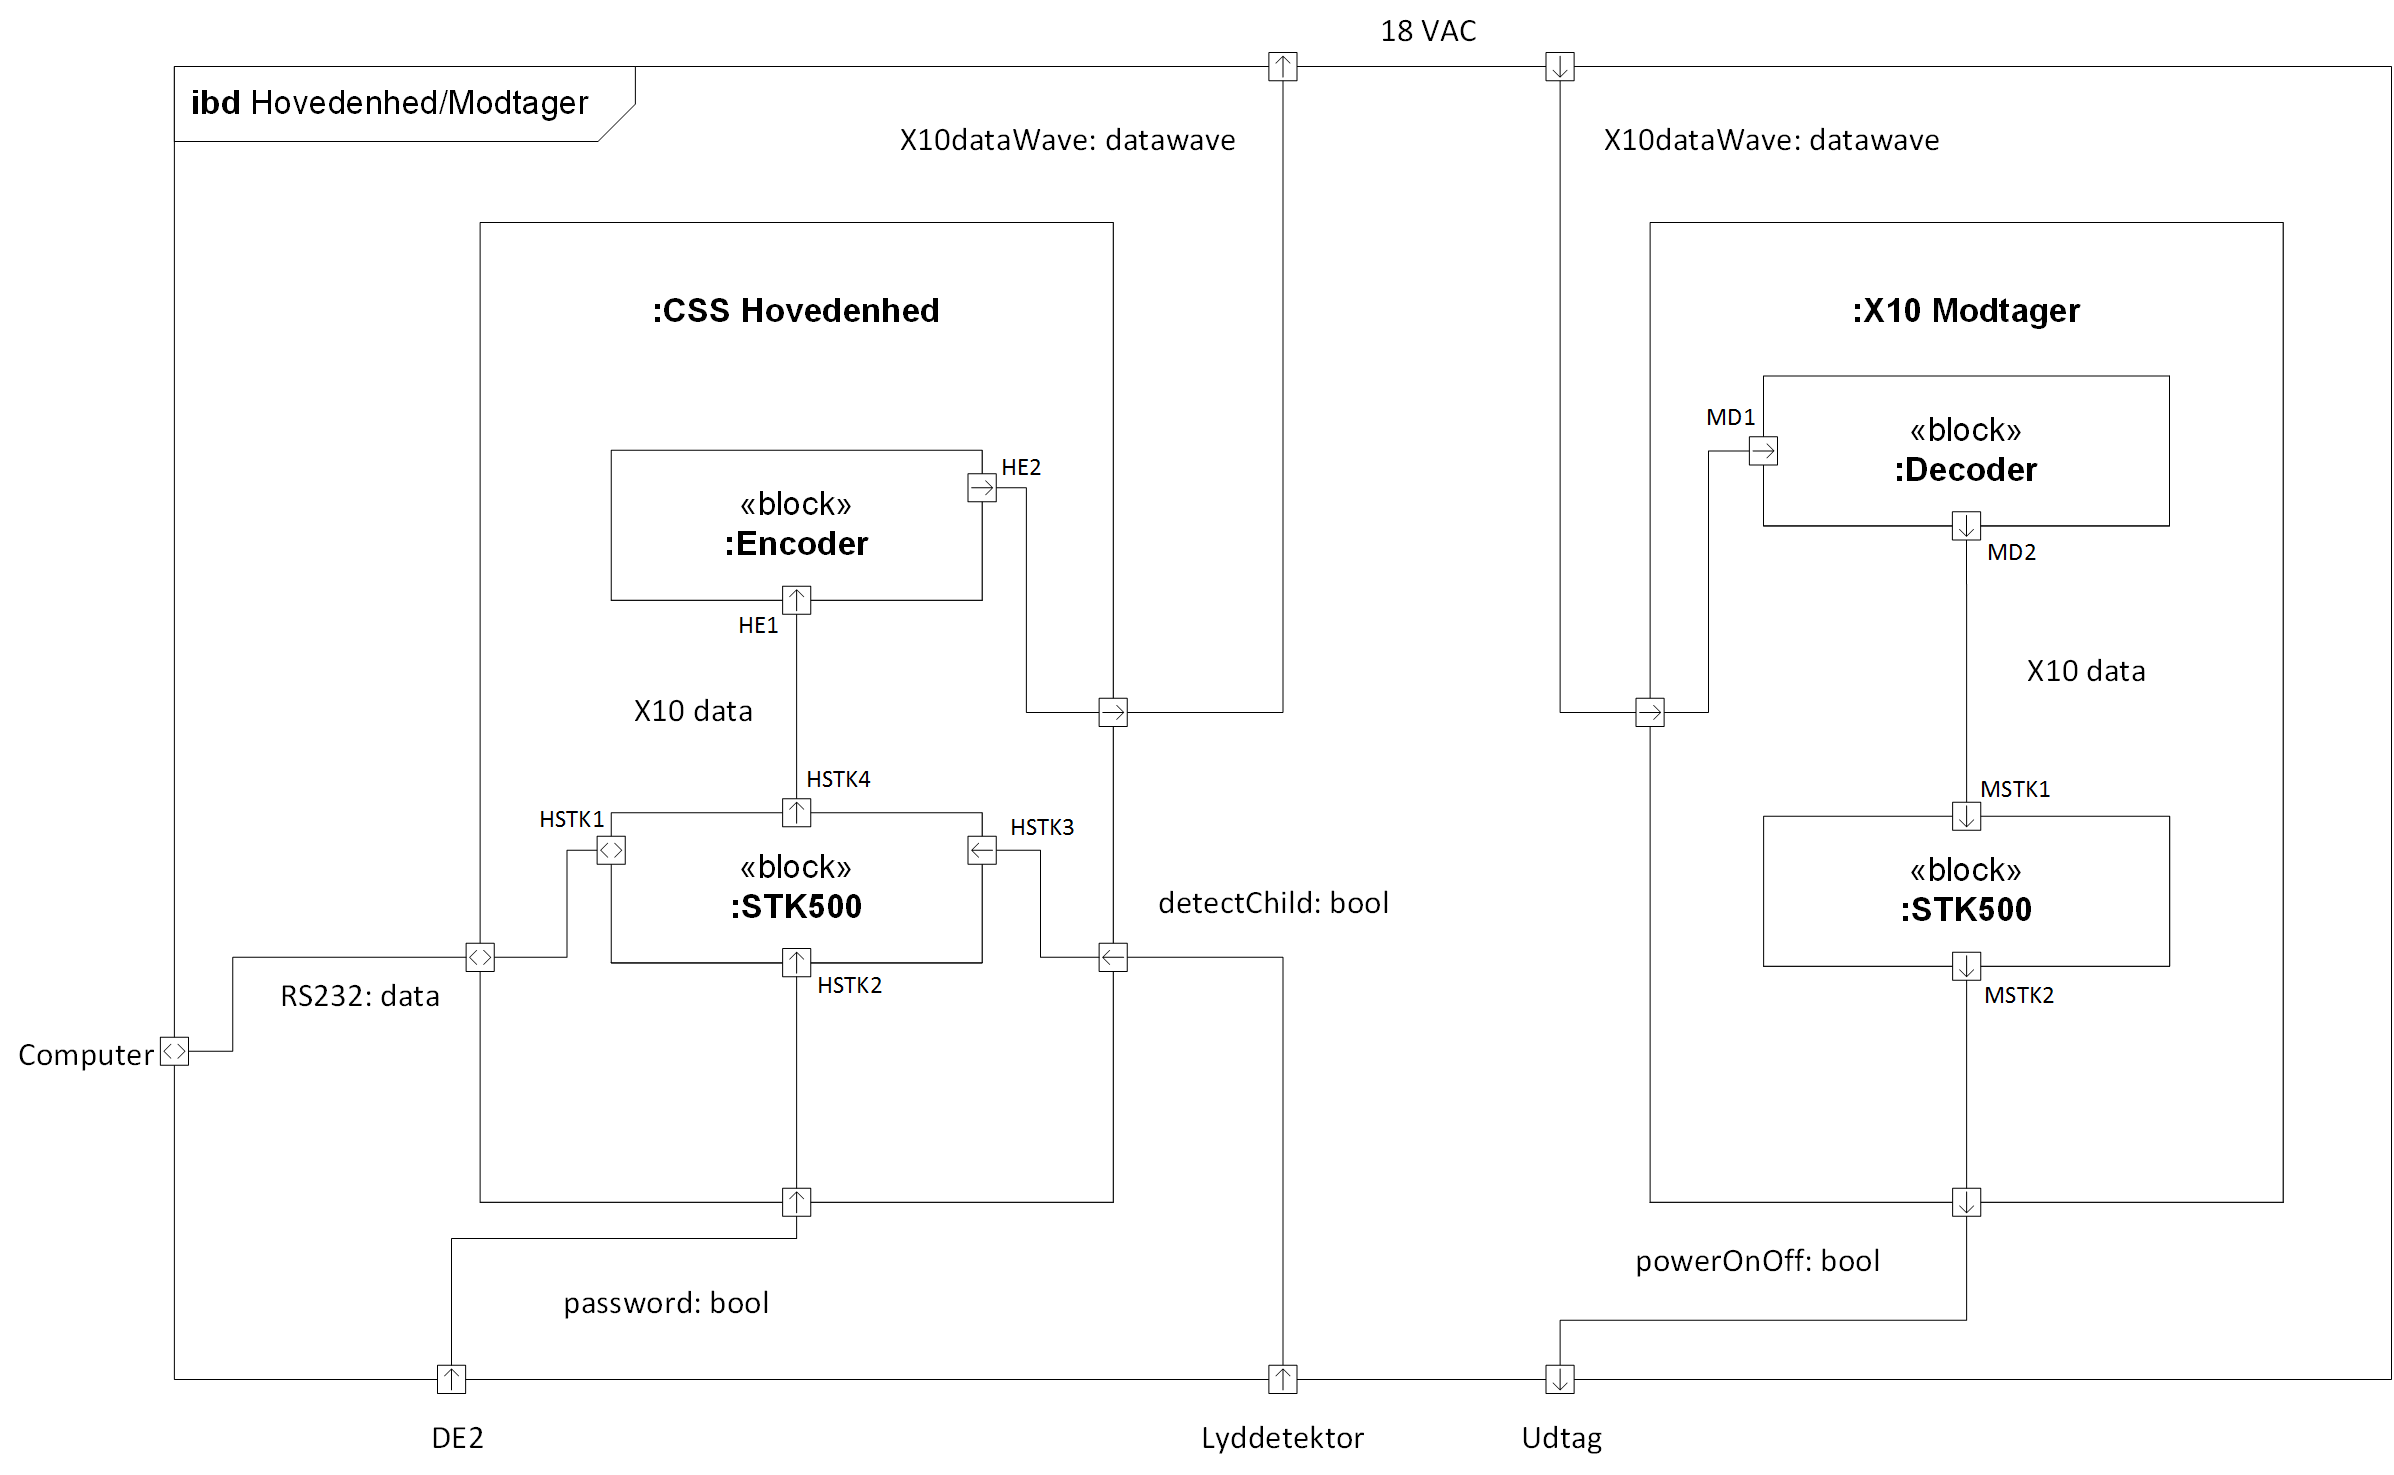
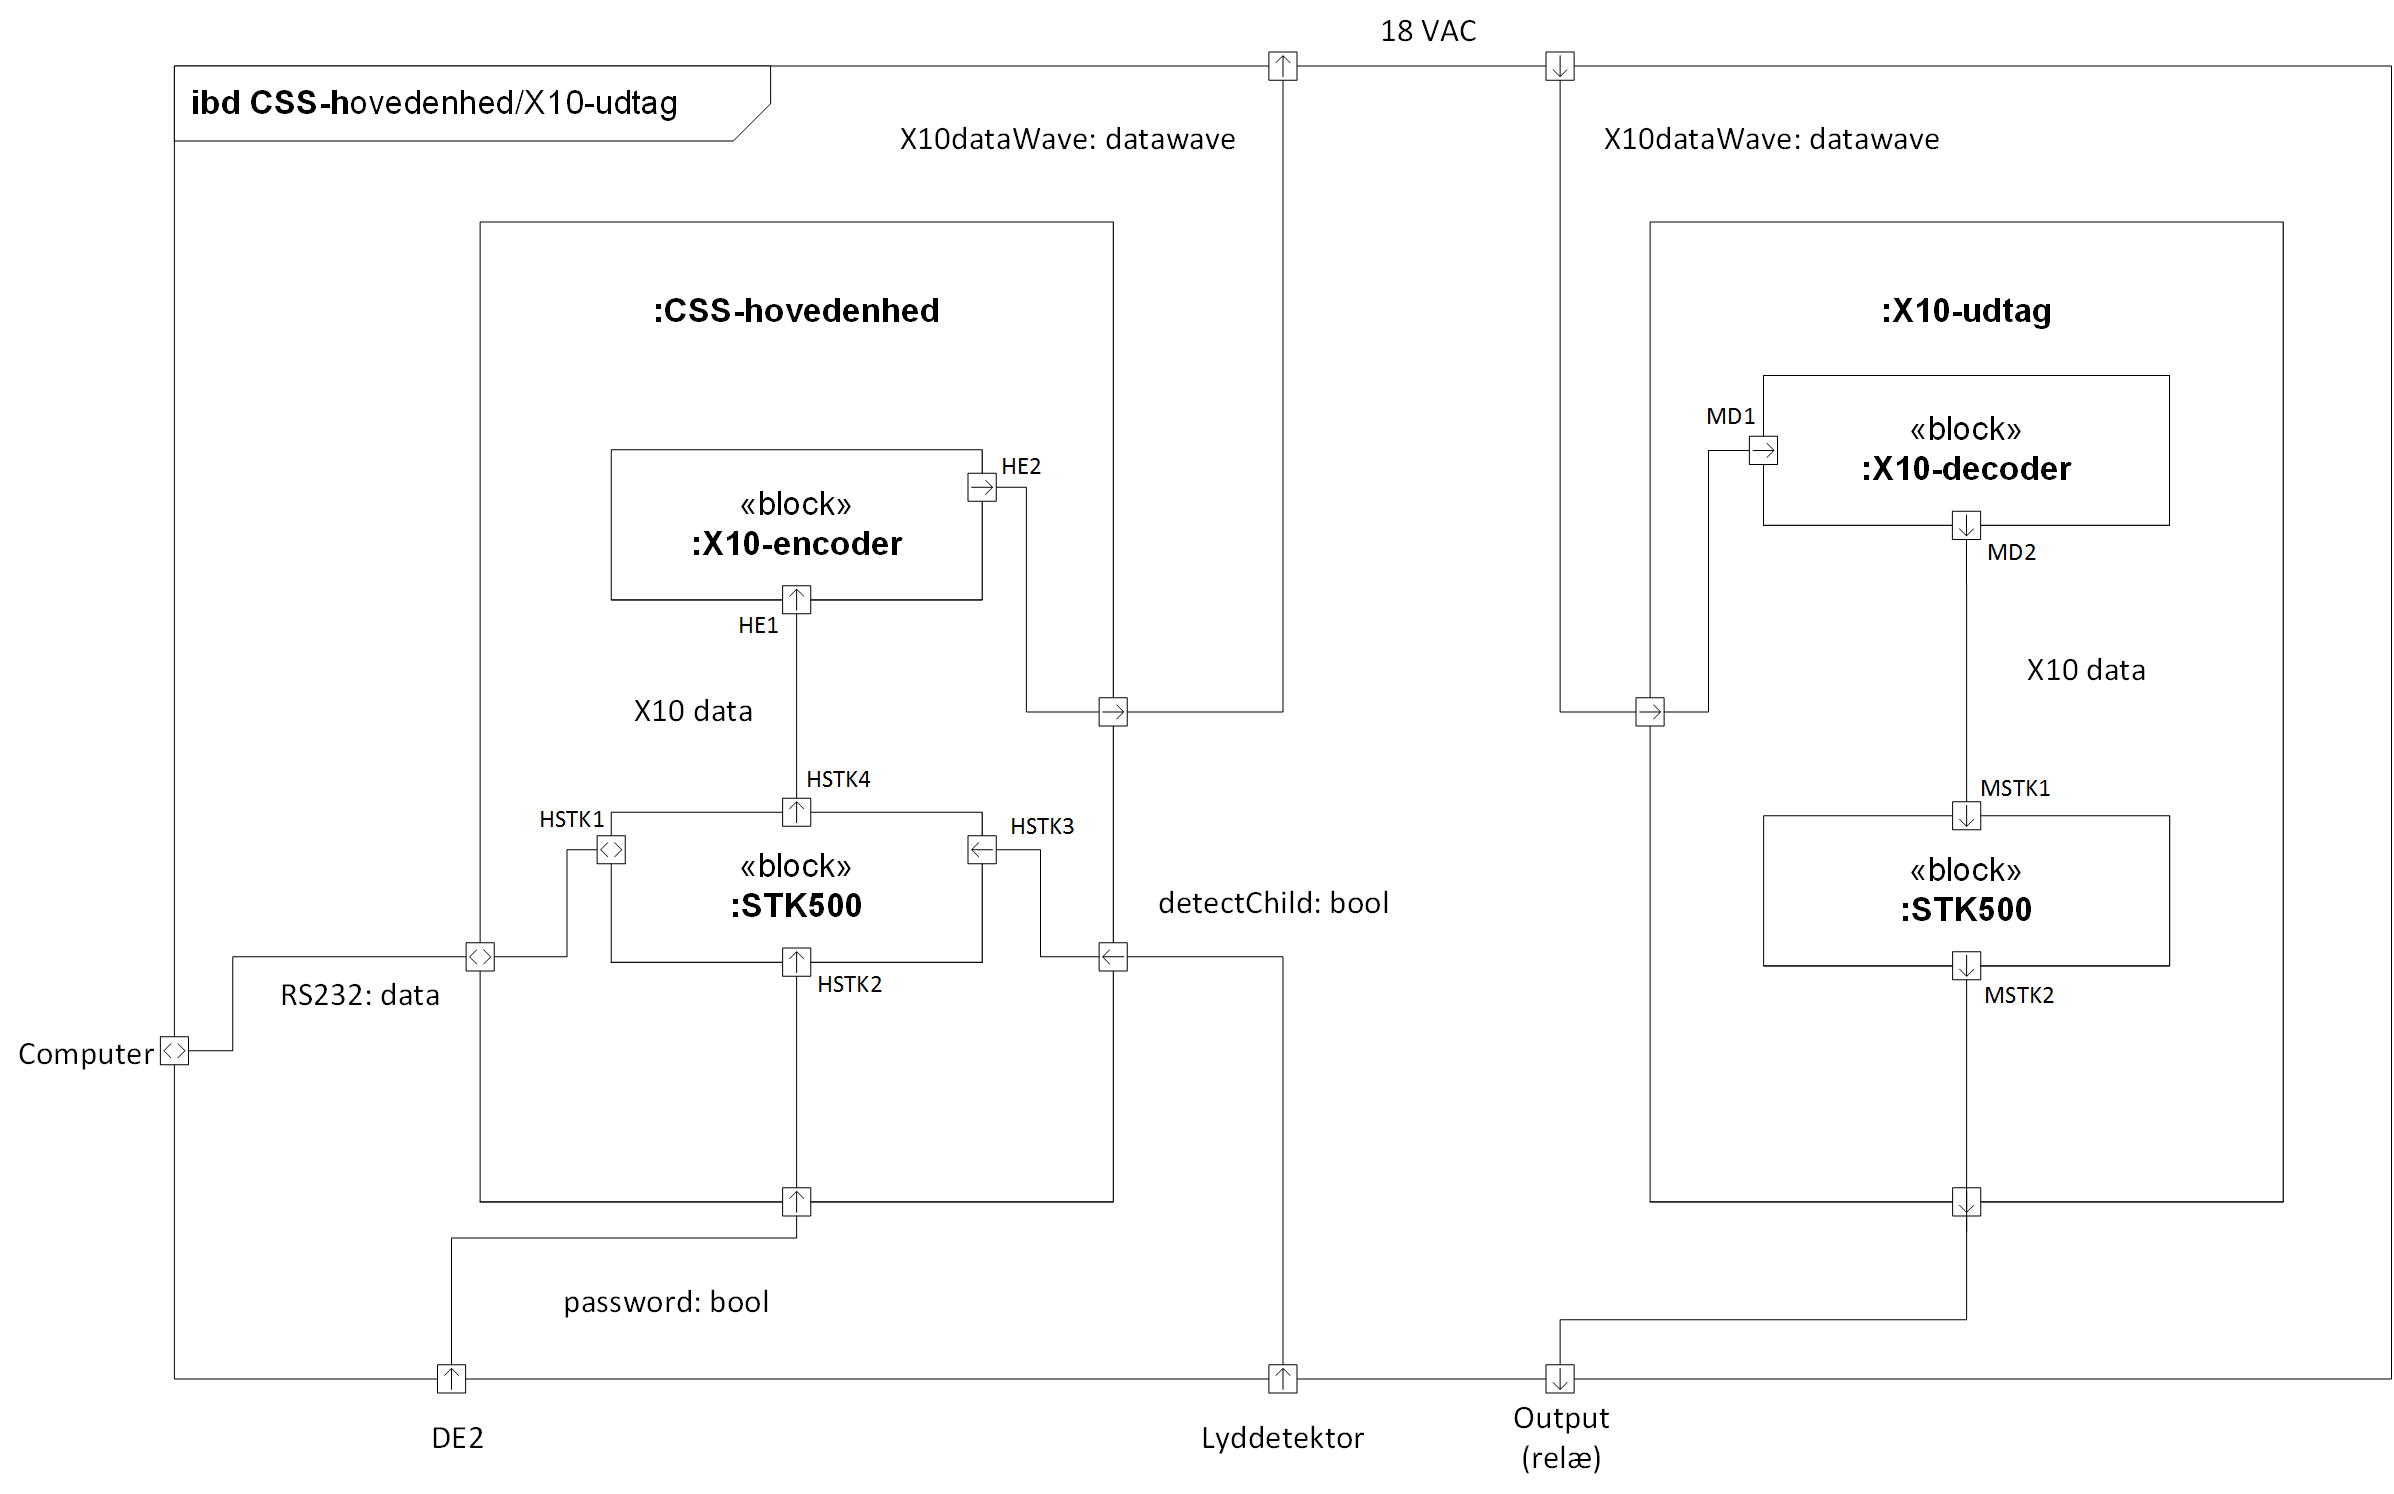
X10-udtag rettelser i Rapport

diff --git a/Projektrapport/filer/systembeskrivelse.tex b/Projektrapport/filer/systembeskrivelse.tex
@@ -8,11 +8,11 @@ Fra kundens synspunkt består systemet af en computer og nogle kontrollerbare st
 \label{fig:sys_oversigt}
 \end{figure}
 
-I figur \ref{fig:sys_oversigt} ser man, at systemet består af en computer, der har forbindelse til CSS-hovedenheden; denne er kundens kontrolenhed(User Interface). Her har kunden adgang til et simpelt menusystem, hvori kunden kan kontrollere stikdåserne(CSS-udtagene). Der er mulighed for at aktivere, deaktivere eller udlæse status på systemet. Der er endvidere også mulighed for at ændre mobilnummeret til den person, som skal modtage babyalarm-SMS'en. Hele systemet kræver en 3 cifret adgangskode, der indtastes ved hjælp af et eksternt hardwaremodul(DE2-kodelås).
+I figur \ref{fig:sys_oversigt} ser man, at systemet består af en PC, der har forbindelse til CSS-hovedenheden; denne er kundens kontrolenhed(User Interface). Her har kunden adgang til et simpelt menusystem, hvori kunden kan kontrollere stikdåserne(X10-udtagene). Der er mulighed for at aktivere, deaktivere eller udlæse status på systemet. Der er endvidere også mulighed for at ændre mobilnummeret til den person, som skal modtage babyalarm-SMS'en. Hele systemet kræver en 3 cifret adgangskode, der indtastes ved hjælp af et eksternt hardwaremodul(DE2-kodelås).
 
-Når en kommando bliver eksekveret i User Interfacet, sendes der data serielt ud via RS232 til CSS-hovedenheden. Denne data bliver encodet til en X10-bitstrøm og sendt ud på el-nettet(18Vac). Denne bitstrøm bliver så aflæst af CSS-modtagerne, og hvis en CSS-modtager har den korrekte adresse, vil kommandoen blive udført på dens udtag. Et CSS-udtag kræver sin egen CSS-modtager.
+Når en kommando bliver eksekveret i User Interfacet, sendes der data serielt ud via RS232 til CSS-hovedenheden. Denne data bliver encodet til en X10-bitstrøm og sendt ud på el-nettet(18Vac). Denne bitstrøm bliver så aflæst af X10-udtagene, og hvis et X10-udtag har den korrekte adresse, vil kommandoen blive udført på denne.
 
-Babyalarmens funktion er at give CSS-hovedenheden besked om støj i det værelse, hvor lyddetektoren sidder placeret. Lyddetektoren er kablet direkte til CSS-hovedenheden og virker ved, at den ved et givent lydniveau\footnote{se ikke-funktionelle krav i produktdokumentationen} vil sende et signal til CSS-hovedenheden, som via dennes serielle port fortæller PCen, at der skal sendes en SMS til det forudbestemte mobilnummer med en advarsel.
+Babyalarmens funktion er at give CSS-hovedenheden besked om støj i det værelse, hvor lyddetektoren sidder placeret. Lyddetektoren er kablet direkte til CSS-hovedenheden og virker ved, at den ved et givent lydniveau\footnote{se ikke-funktionelle krav i produktdokumentationen} vil sende et signal til CSS-hovedenheden, som via dennes serielle RS232 port fortæller PCen, at der skal sendes en SMS til det forudbestemte mobilnummer med en advarsel.
 
 \subsection*{Installation i hjemmet (PO)}
 
